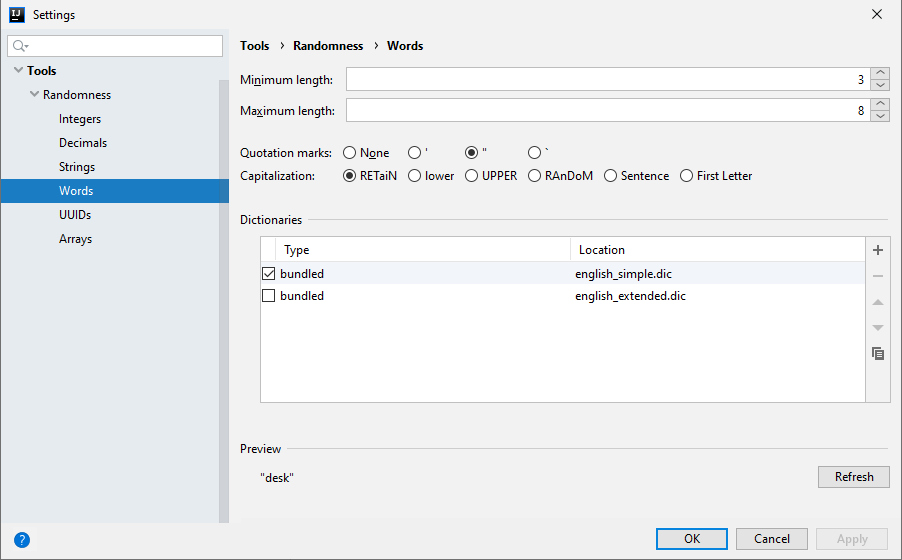
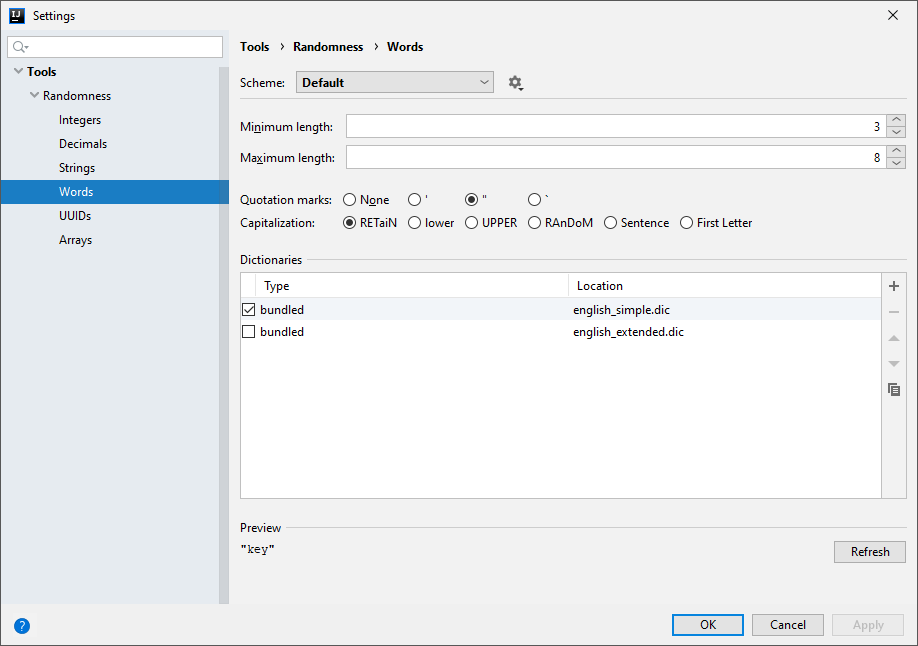
Bump version number, add change notes, update images

diff --git a/src/main/resources/META-INF/change-notes.html b/src/main/resources/META-INF/change-notes.html
@@ -1,30 +1,49 @@
-Versions from before 2018 are no longer supported.
-
-All settings are invalidated as of this version. Beware.
-
+<b>All Randomness settings will be reset when updating to v2.4.0 because of changes in how settings are stored.</b>
+You can safely reconfigure Randomness after updating.<br />
+<br />
 <b>New features</b>
 <ul>
-    <li>Holding <kbd>Alt</kbd> (<kbd>⌥</kbd>) while inserting values will insert the same value at all carets.</li>
-    <li>All Randomness actions can now be identified by their icons.</li>
-    <li>The popup now opens next to where you want to insert the data.</li>
-    <li>The popup is now disabled if no editor is selected.</li>
-    <li>Better instructions when tables are empty.</li>
-    <li>Simplifies actions popup sub-menus.</li>
-    <li>Support for combining modifier keys in popup.</li>
-    <li>Improved spinner validation messages.</li>
-    <li>Added schemes.</li>
-    <li>Array previews now feature different, random numbers.</li>
-    <li>No more bordered panels; these occurred on some operating systems.</li>
-    <li>Symbol set editing is now easier with expandable text fields.</li>
-    <li>New logo.</li>
+    <li>
+        <b>🗃 Schemes</b>.
+        Save your Randomness configurations using schemes.
+        Simply create some new schemes to your liking, and you can change back and forth between your schemes without
+        any typing.
+    </li>
+    <li>
+        <b>🖼 Icons</b>.
+        In addition to Randomness' new logo, all Randomness actions can now be identified by their unique icons.
+    </li>
+    <li>
+        <b>♻ Repeat</b>.
+        Hold <kbd>Alt</kbd> (<kbd>⌥</kbd>) while selecting a data type to insert will insert the same value at all
+        <a href="https://www.jetbrains.com/help/idea/working-with-source-code.html#multiple_cursor">carets</a>.
+        Like all other Randomness actions, the repeat action can be assigned a shortcut if you want.
+    </li>
+    <li>
+        <b>⌨ Modifier keys</b>.
+        Hold multiple modifier keys (<kbd>Alt</kbd>, <kbd>Ctrl</kbd>, <kbd>Shift</kbd>) to combine their effects.
+        For example, hold <kbd>Ctrl + Shift</kbd> to change the array settings, or hold <kbd>Alt + Shift</kbd> to insert
+        repeated arrays.
+    </li>
+    <li>
+        <b>📏 Expandable fields</b>.
+        View large symbol sets in a single glance using expandable text fields.
+        No more horizontal scrolling back and forth.
+    </li>
+    <li>Empty tables now contain clickable links for adding new values.</li>
+    <li>Array previews now contain multiple random numbers instead of repeating the number 17.</li>
+    <li>Groups of settings are separated by horizontal lines instead of being surrounded by borders.</li>
 </ul>
 
 <b>Fixes</b>
 <ul>
-    <li>Popup is now wide enough to display full header text.</li>
+    <li>The Randomness popup now appears at your caret instead of in the middle of the screen.</li>
+    <li>The Randomness popup no longer appears when the editor isn't selected.</li>
+    <li>The Randomness popup is now wide enough to display the full header text.</li>
+    <li>Invalid number inputs result in preciser error messages.</li>
+    <li>Previews that exceed the dialog width now wrap around.</li>
     <li>
-        The symbol set and dictionary tables now focus on the first editable column when a new item is added instead
-        instead of the activity column.
+        Adding a new symbol set or dictionary will move focus to the first editable column so you can start typing right
+        away.
     </li>
-    <li>Previews no longer exceed the dialog width.</li>
 </ul>

diff --git a/.github/ISSUE_TEMPLATE/bug_report.md b/.github/ISSUE_TEMPLATE/bug_report.md
@@ -26,7 +26,7 @@ Steps to reproduce the behavior:
 **Version information**
  - Operating system [e.g. Windows 10, Ubuntu 18.04, macOS 10.15]:
  - Java version [e.g. 1.8.202, 11.0.4]:
- - Randomness version [e.g. 2.3.0]:
+ - Randomness version [e.g. 2.4.0]:
 
 **Additional context**
 <!-- Add any other context about the problem here. -->
